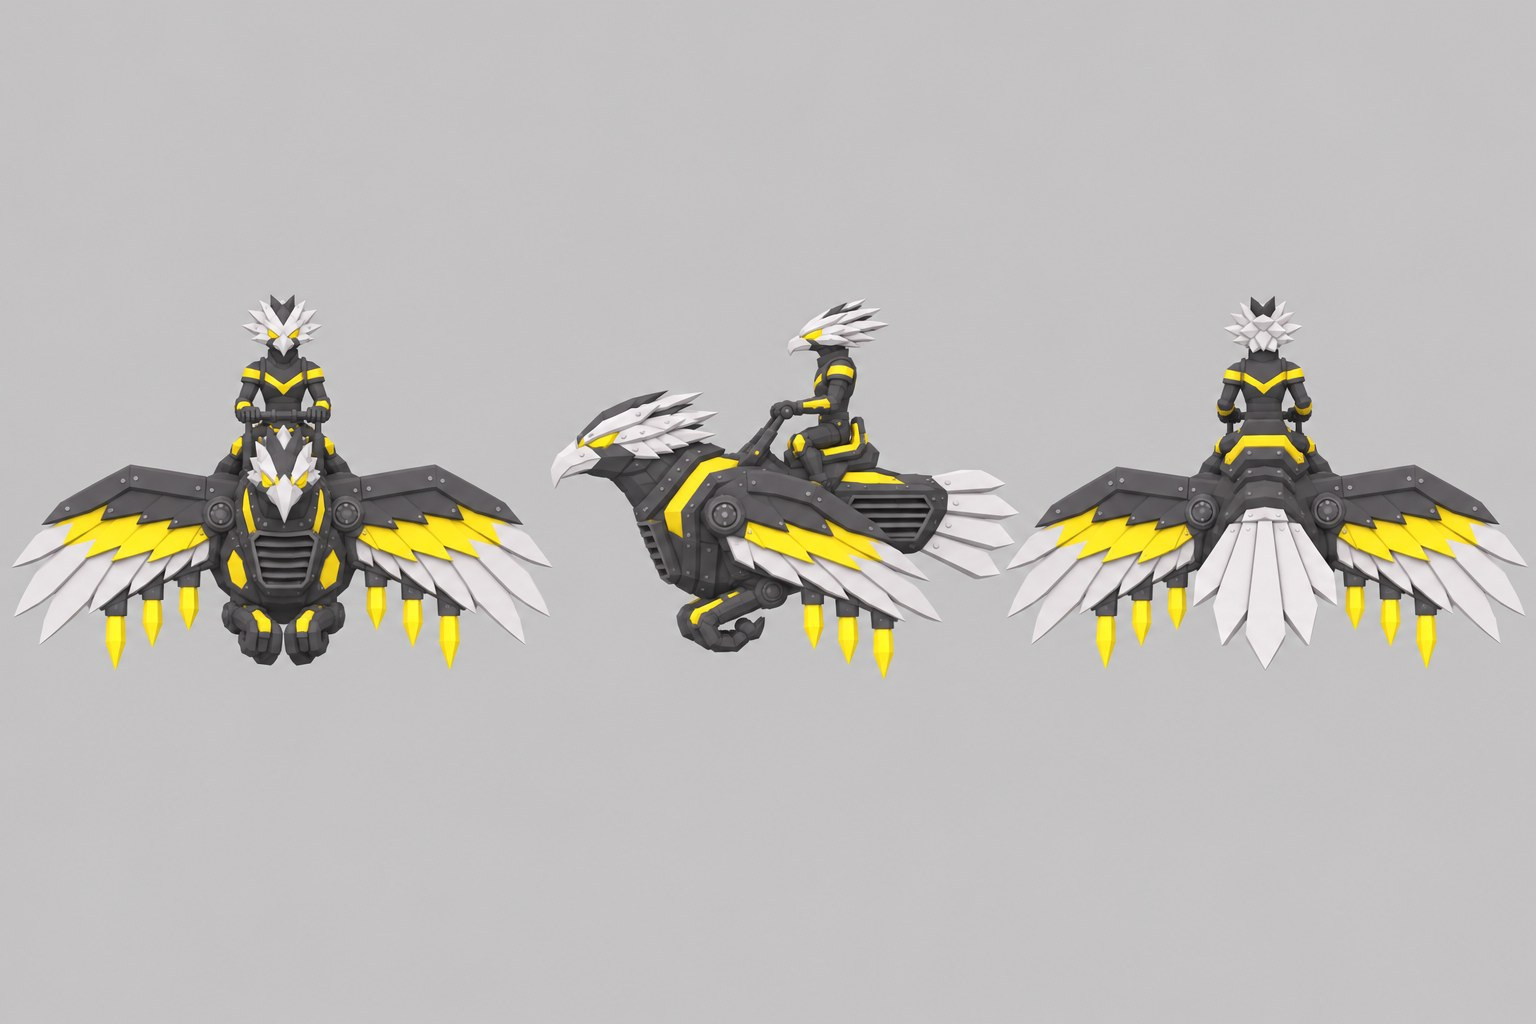
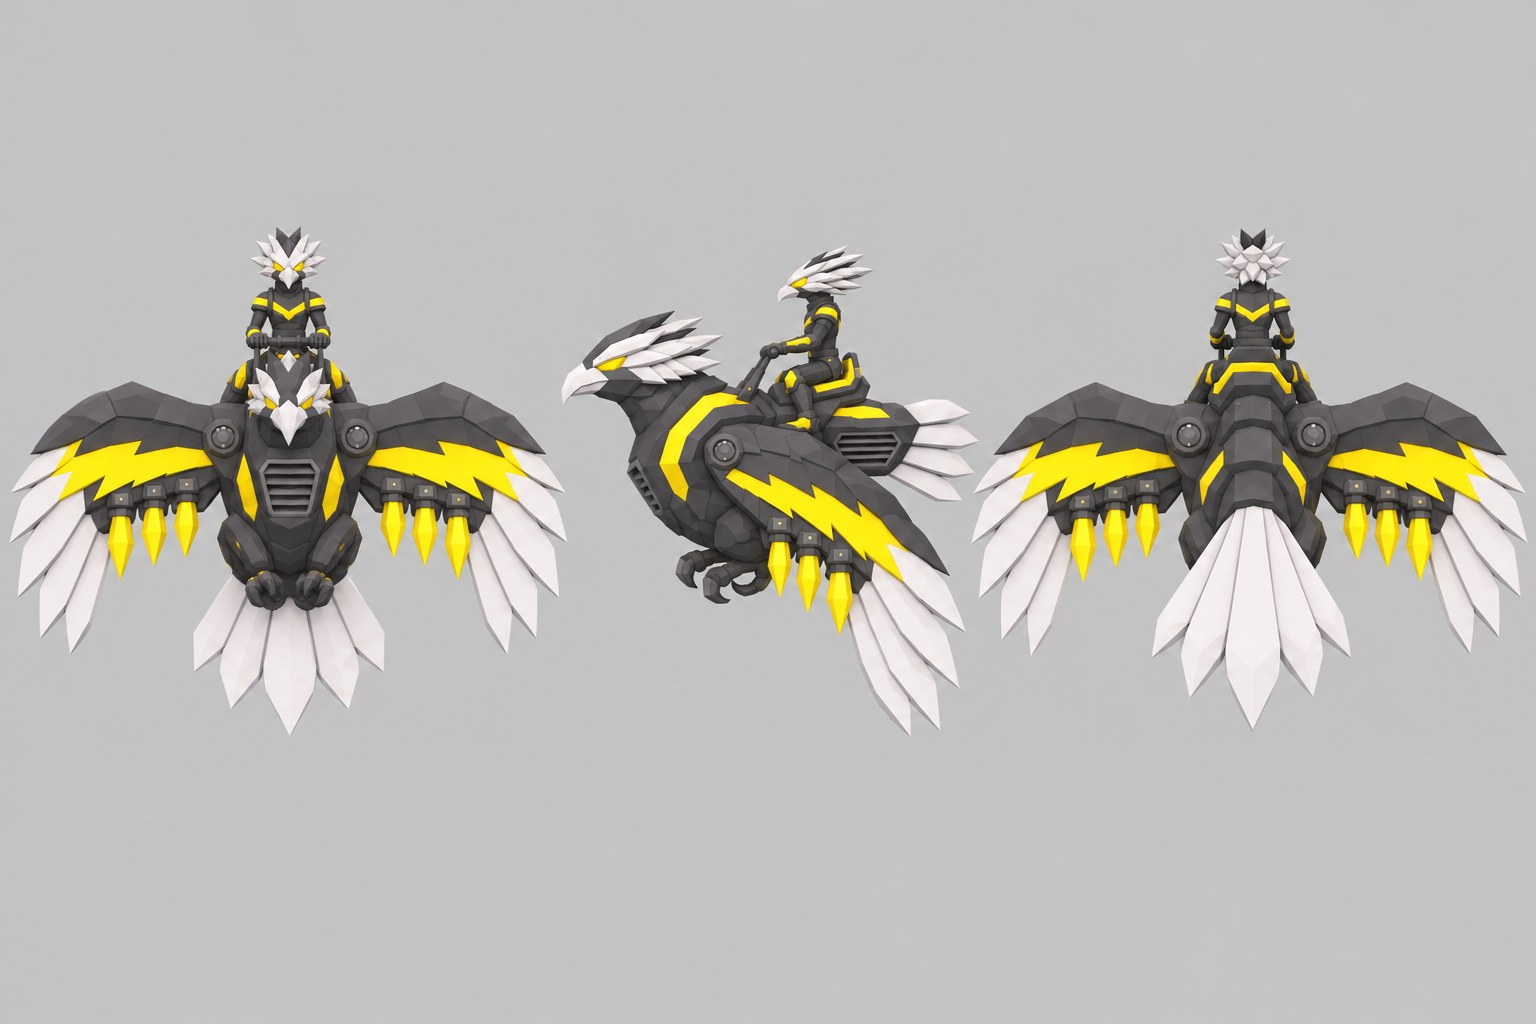
Third round of model sheets, in progress
Claude-Session: https://claude.ai/code/session_011tHXKAzD8HvWDijatPpkCi

Changed region(s): [[0.0, 0.2188, 1.0, 0.7188]]

diff --git a/rts/docs/art/concept/turnarounds4/README.md b/rts/docs/art/concept/turnarounds4/README.md
@@ -1,0 +1,32 @@
+<!-- rts/docs/art/concept/turnarounds4/README.md: results of the fourth set of model sheets, a revision of five sheets after the second developer review of 16 Nov 2026 (front, side, back; front, side, bottom for the Thunderhead), checked against rts/docs/art/CONCEPT_BRIEF.md; images made by rts/tools/ConceptArt/generate.py. -->
+# Turnarounds 4
+
+Model for every shot: `gpt-image-2.6-sunburst`, size 1536x1024, edit endpoint, `quality: "high"`, same style text as turnarounds3. Each shot passes the previous sheet of the unit as reference (Marksman, Pummeler, Water Worker: turnarounds2; Roc Rider, Thunderhead: turnarounds3), plus `round9/skai_air_units.jpg` for both air units and `round7/skai_thunderhead.jpg` for the Thunderhead. 6 image requests in total: 5 first attempts, then 1 regeneration (Roc Rider). PNG originals are kept outside the repository.
+
+Approximate x-ranges of the three views (front, side, back; for the Thunderhead front, side, bottom) in the 1536-pixel-wide image, for cropping (est. where views touch):
+
+| Shot id | Front | Side | Back / bottom |
+| --- | --- | --- | --- |
+| skai_marksman_sheet | 100-345 | 375-1035 (rifle included) | 1185-1440 |
+| skai_thunderhead_sheet | 30-500 | 525-975 | 1005-1500 (bottom) |
+| water_pummeler_sheet | 30-535 | 545-960 | 1000-1500 |
+| water_worker_sheet | 150-430 | 590-935 | 1010-1395 |
+| skai_roc_rider_sheet | 10-570 (est.) | 560-975 | 1000-1510 |
+
+| Shot id | File | Model | Result | Critique |
+| --- | --- | --- | --- | --- |
+| skai_marksman_sheet | skai_marksman_sheet.jpg | gpt-image-2.6-sunburst | pass | Shouldered rifle: grip hand near the body, support hand on the forward handguard, barrel level along the beak direction (at the viewer in front, left in side). Back view shows both arms raised, rifle hidden behind the body. |
+| skai_thunderhead_sheet | skai_thunderhead_sheet.jpg | gpt-image-2.6-sunburst | pass (with reservation) | Bird head with hooked beak and yellow eyes at the nose in front and side views, beak at the nose tip in the bottom view; pods and guns kept. Reservation: the head is small and the bottom view is a little larger than the others. |
+| water_pummeler_sheet | water_pummeler_sheet.jpg | gpt-image-2.6-sunburst | pass | Thick upper arms and club fists about torso size hanging low in front; coral kept as in turnarounds2 (still a strong red-coral). |
+| water_worker_sheet | water_worker_sheet.jpg | gpt-image-2.6-sunburst | pass | Opaque sea-green head with raised turquoise eyes, brow ridges, mouth and siphon in the front and side views inside a solid coral ring; nothing transparent. |
+| skai_roc_rider_sheet | skai_roc_rider_sheet.jpg | gpt-image-2.6-sunburst | pass (with reservation) | Raptor much bigger than the small rider, legs tucked with curled talons, three yellow crystals under each wing visible in all views, vents and metal-blade feathers kept. Reservation: the side view wings sweep slightly down, not perfectly level. |
+
+## Changed prompts
+
+Appended before the backdrop text for the regenerated Roc Rider sheet.
+
+Roc Rider: "RETRY NOTES: in the previous attempt the raptor was still small and the views occupied only half of the sheet height. Now: scale everything up so each view fills at least 80 percent of the sheet height and the three views nearly touch: the RAPTOR is a huge machine, its body is about four times the rider's height and its wingspan dominates, the rider is a small figure on its back (about one quarter of the raptor's body length). Keep the tucked legs with curled talons and the yellow crystals under both wings." `shots.json` holds the final prompts.
+
+## Tool changes
+
+None; `rts/tools/ConceptArt/generate.py` was used unchanged.
